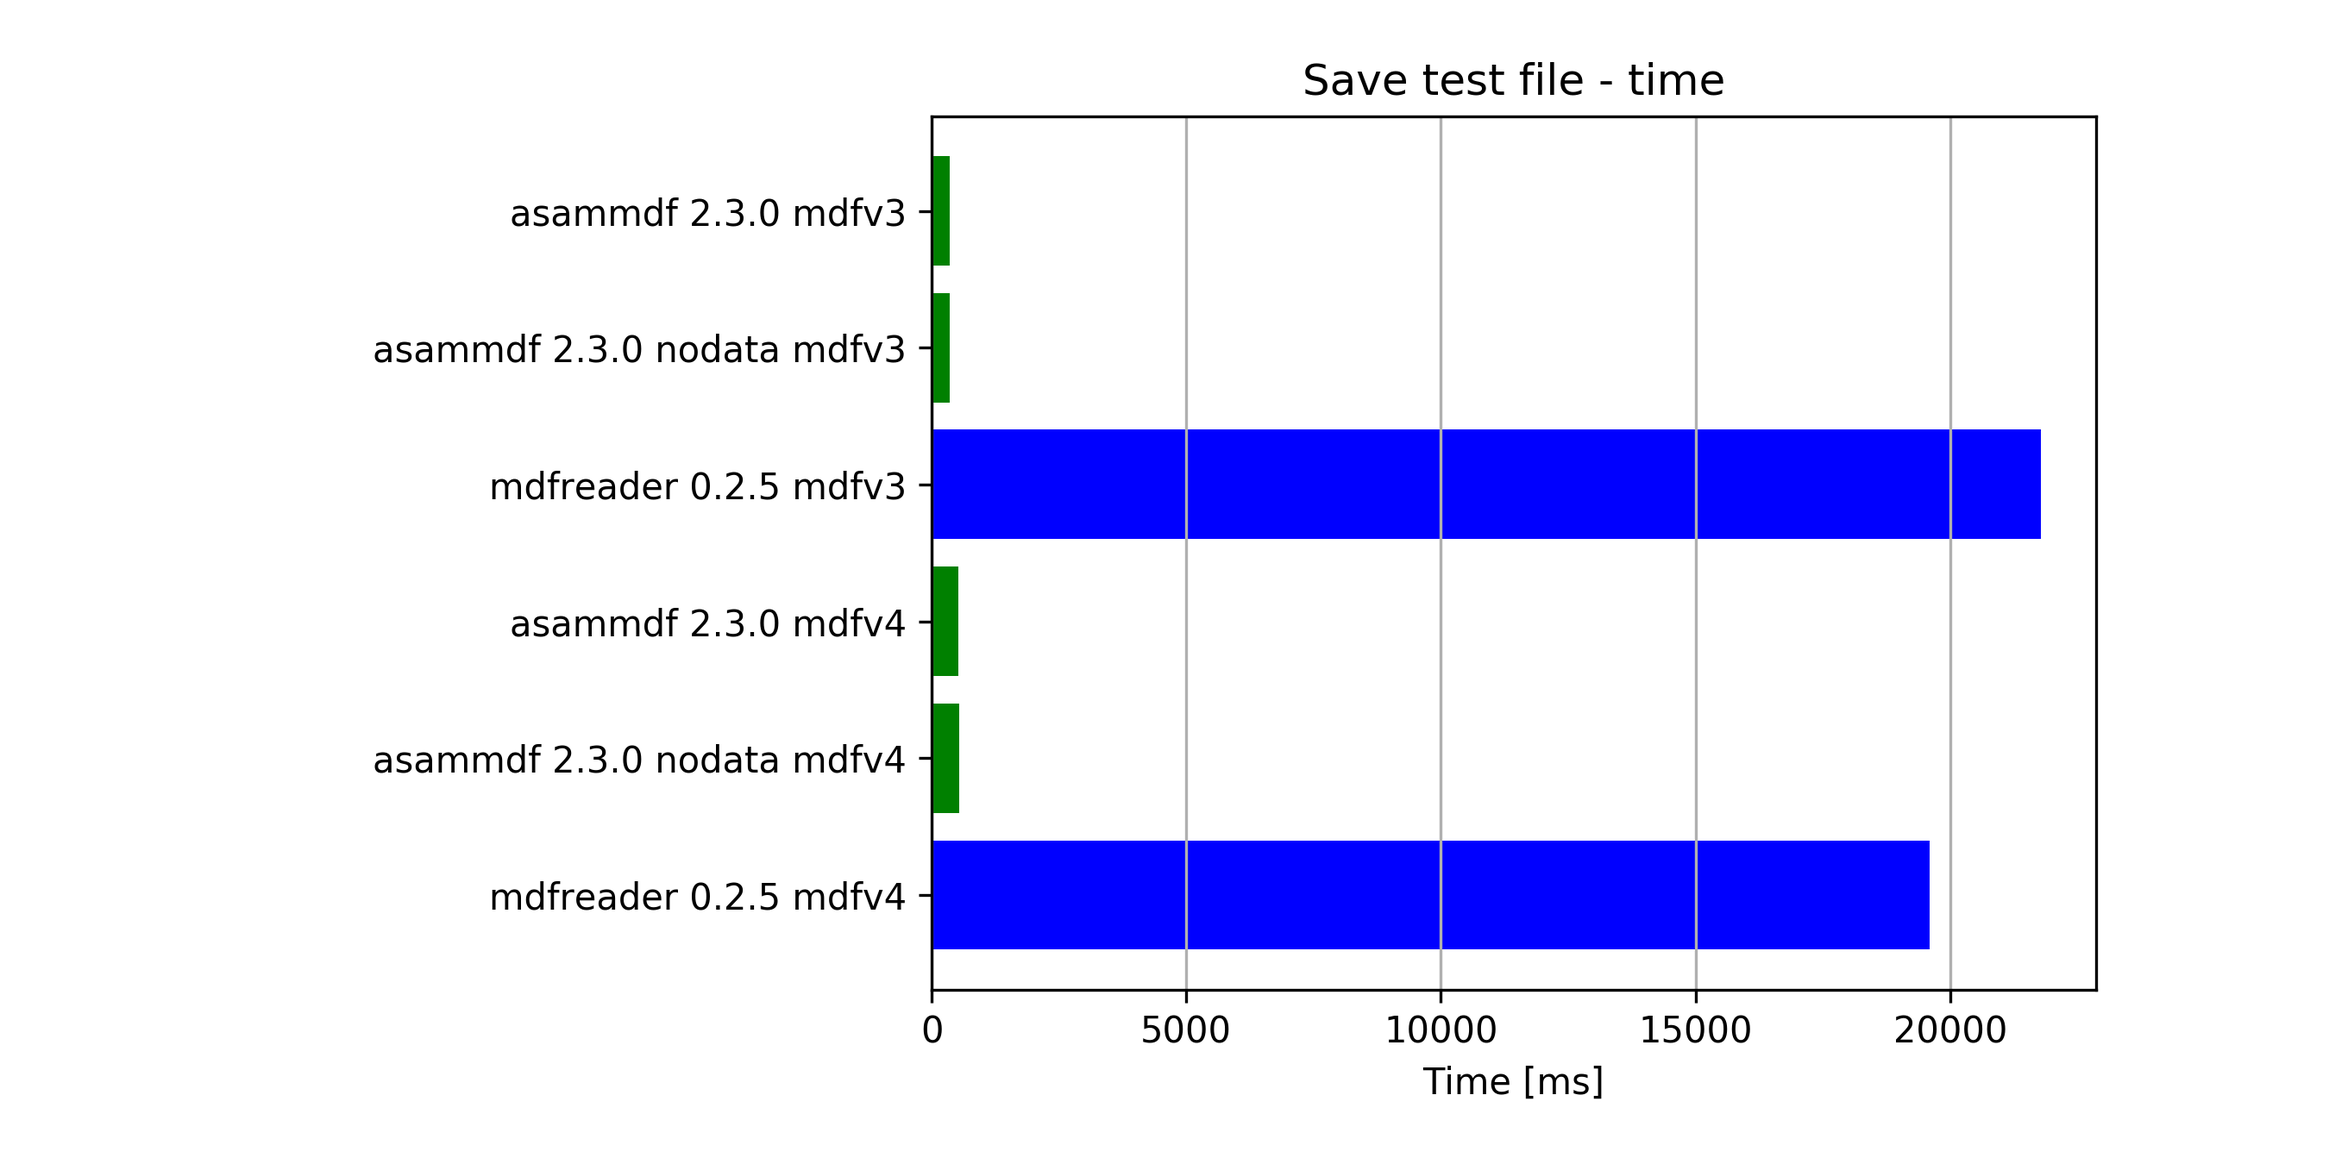
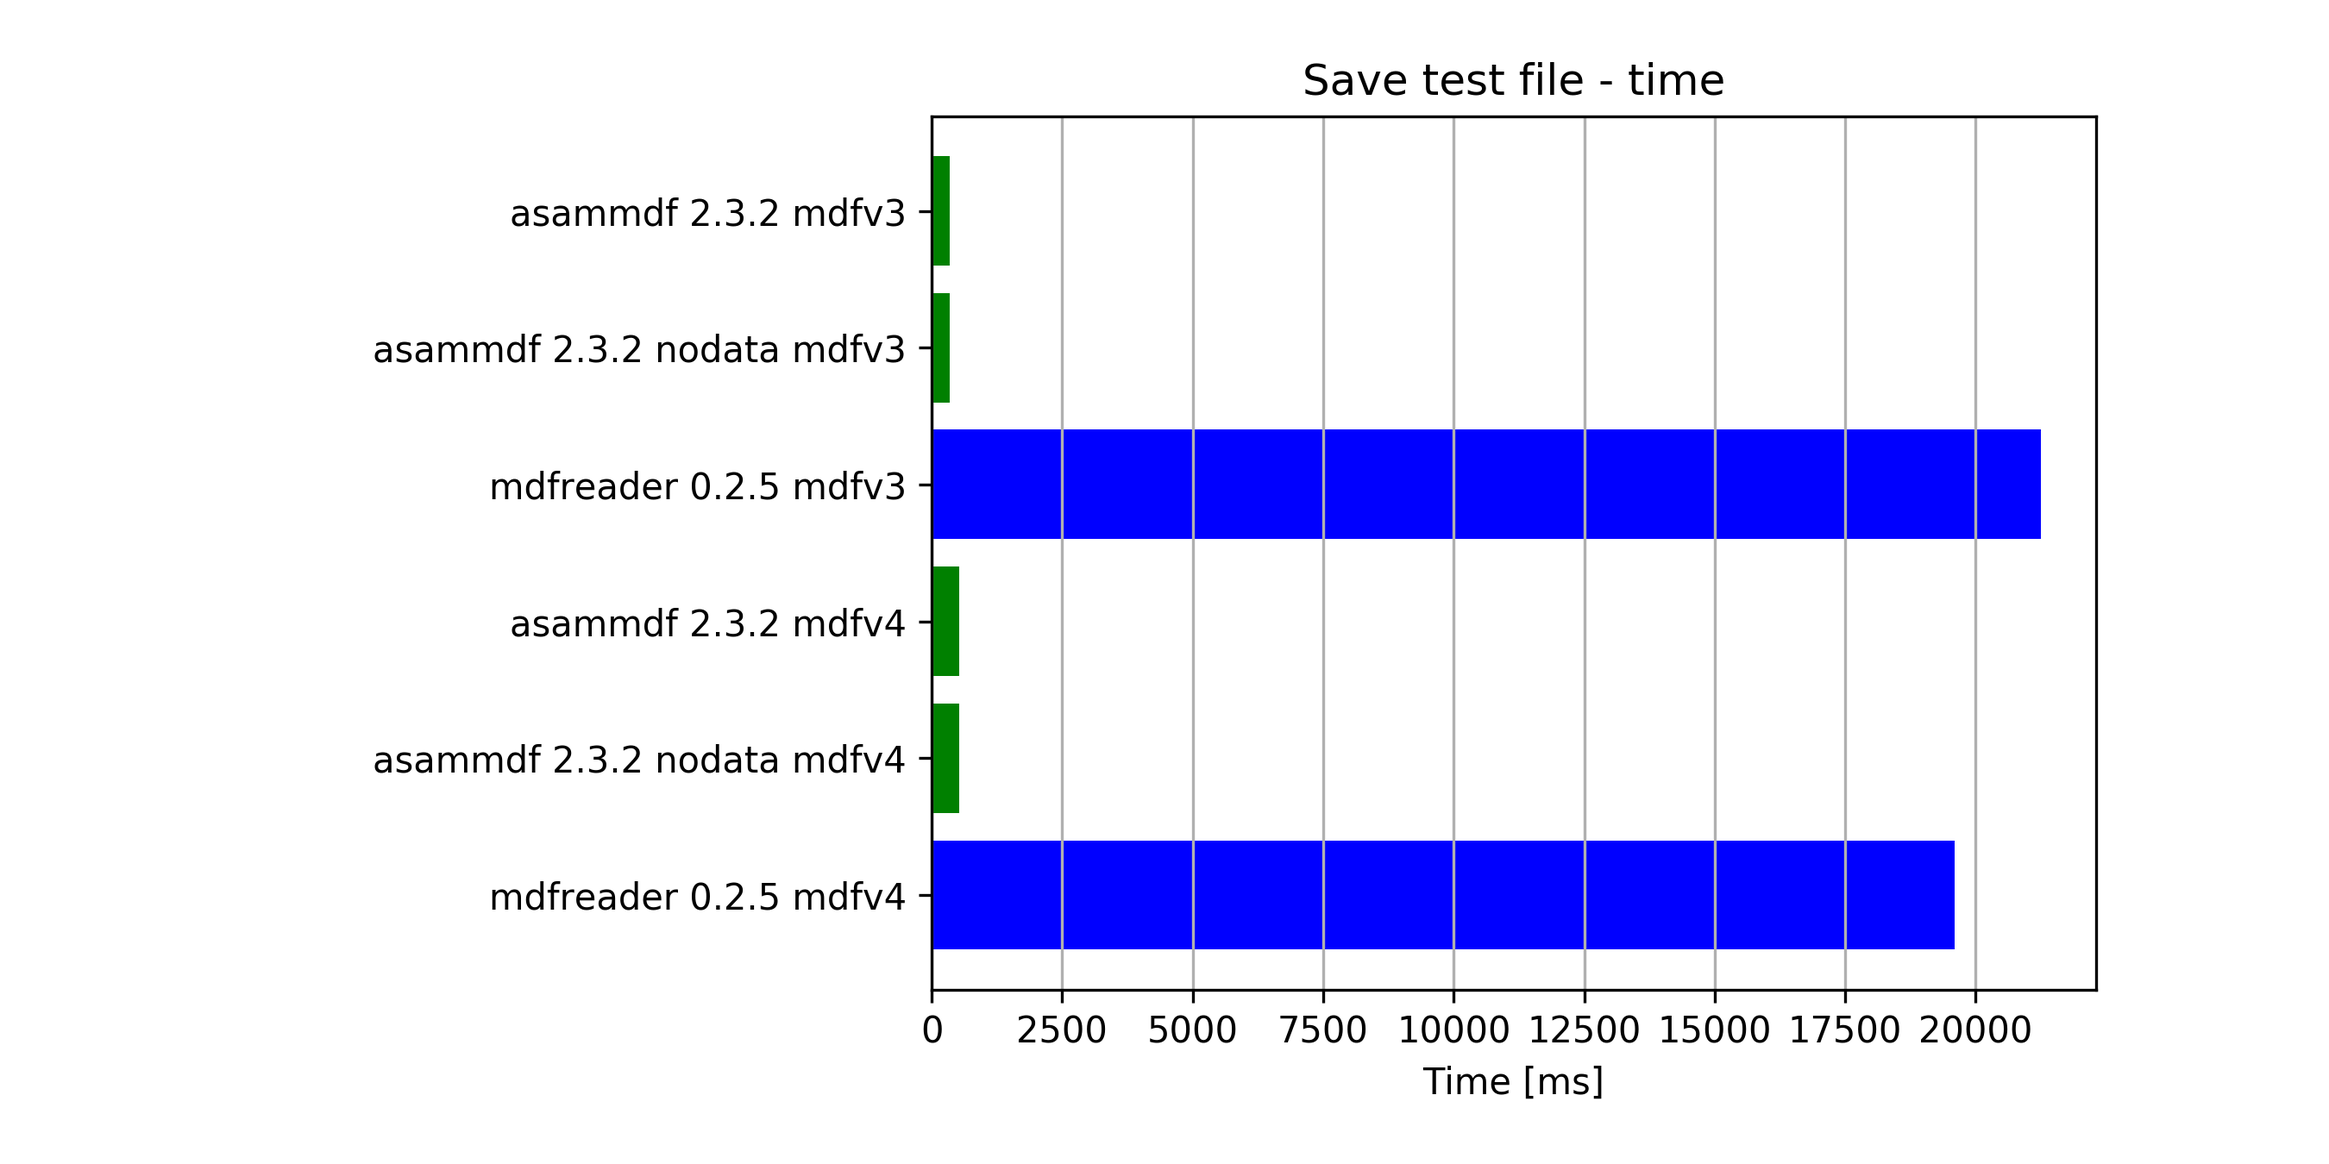
release 2.3.2

diff --git a/documentation/benchmarks.rst b/documentation/benchmarks.rst
@@ -24,7 +24,7 @@ Intro
 The benchmarks were done using two test files (for mdf version 3 and 4) of around 170MB. 
 The files contain 183 data groups and a total of 36424 channels.
 
-*asamdf 2.3.0* was compared against *mdfreader 0.2.5*. 
+*asamdf 2.3.2* was compared against *mdfreader 0.2.5*. 
 *mdfreader* seems to be the most used Python package to handle MDF files, and it also supports both version 3 and 4 of the standard.
 
 The three benchmark cathegories are file open, file save and extracting the data for all channels inside the file(36424 calls).
@@ -61,36 +61,36 @@ Files used for benchmark:
 ================================================== ========= ========
 Open file                                          Time [ms] RAM [MB]
 ================================================== ========= ========
-asammdf 2.3.0 mdfv3                                     1011      379
-asammdf 2.3.0 nodata mdfv3                               725      198
-mdfreader 0.2.5 mdfv3                                   2973      537
-asammdf 2.3.0 mdfv4                                     1890      464
-asammdf 2.3.0 nodata mdfv4                              1542      268
-mdfreader 0.2.5 mdfv4                                  32192      748
+asammdf 2.3.2 mdfv3                                      831      371
+asammdf 2.3.2 nodata mdfv3                               609      190
+mdfreader 0.2.5 mdfv3                                   3083      536
+asammdf 2.3.2 mdfv4                                     1710      455
+asammdf 2.3.2 nodata mdfv4                              1349      260
+mdfreader 0.2.5 mdfv4                                  30847      748
 ================================================== ========= ========
 
 
 ================================================== ========= ========
 Save file                                          Time [ms] RAM [MB]
 ================================================== ========= ========
-asammdf 2.3.0 mdfv3                                      359      379
-asammdf 2.3.0 nodata mdfv3                               352      205
-mdfreader 0.2.5 mdfv3                                  21777     1997
-asammdf 2.3.0 mdfv4                                      525      471
-asammdf 2.3.0 nodata mdfv4                               542      280
-mdfreader 0.2.5 mdfv4                                  19591     2795
+asammdf 2.3.2 mdfv3                                      348      371
+asammdf 2.3.2 nodata mdfv3                               343      197
+mdfreader 0.2.5 mdfv3                                  21244     1997
+asammdf 2.3.2 mdfv4                                      530      462
+asammdf 2.3.2 nodata mdfv4                               522      272
+mdfreader 0.2.5 mdfv4                                  19594     2795
 ================================================== ========= ========
 
 
 ================================================== ========= ========
 Get all channels (36424 calls)                     Time [ms] RAM [MB]
 ================================================== ========= ========
-asammdf 2.3.0 mdfv3                                      589      383
-asammdf 2.3.0 nodata mdfv3                              8841      209
-mdfreader 0.2.5 mdfv3                                     28      537
-asammdf 2.3.0 mdfv4                                      494      468
-asammdf 2.3.0 nodata mdfv4                             12330      280
-mdfreader 0.2.5 mdfv4                                     39      748
+asammdf 2.3.2 mdfv3                                      681      383
+asammdf 2.3.2 nodata mdfv3                              9175      209
+mdfreader 0.2.5 mdfv3                                     29      537
+asammdf 2.3.2 mdfv4                                      599      464
+asammdf 2.3.2 nodata mdfv4                             12191      273
+mdfreader 0.2.5 mdfv4                                     38      748
 ================================================== ========= ========
 
 Graphical results
@@ -101,7 +101,7 @@ Graphical results
     import matplotlib.pyplot as plt
     import numpy as np
     
-    res = '../benchmarks/x64_asammdf_2.3.0_mdfreader_0.2.5.txt'
+    res = '../benchmarks/results/x64_asammdf_2.3.2_mdfreader_0.2.5.txt'
     topic = 'Open'
     aspect = 'time'
     for_doc = True
@@ -169,7 +169,7 @@ Graphical results
     import matplotlib.pyplot as plt
     import numpy as np
 
-    res = '../benchmarks/x64_asammdf_2.3.0_mdfreader_0.2.5.txt'
+    res = '../benchmarks/results/x64_asammdf_2.3.2_mdfreader_0.2.5.txt'
     topic = 'Open'
     aspect = 'ram'
     for_doc = True
@@ -237,7 +237,7 @@ Graphical results
     import matplotlib.pyplot as plt
     import numpy as np
 
-    res = '../benchmarks/x64_asammdf_2.3.0_mdfreader_0.2.5.txt'
+    res = '../benchmarks/results/x64_asammdf_2.3.2_mdfreader_0.2.5.txt'
     topic = 'Save'
     aspect = 'time'
     for_doc = True
@@ -306,7 +306,7 @@ Graphical results
     import matplotlib.pyplot as plt
     import numpy as np
 
-    res = '../benchmarks/x64_asammdf_2.3.0_mdfreader_0.2.5.txt'
+    res = '../benchmarks/results/x64_asammdf_2.3.2_mdfreader_0.2.5.txt'
     topic = 'Save'
     aspect = 'ram'
     for_doc = True
@@ -374,7 +374,7 @@ Graphical results
     import matplotlib.pyplot as plt
     import numpy as np
 
-    res = '../benchmarks/x64_asammdf_2.3.0_mdfreader_0.2.5.txt'
+    res = '../benchmarks/results/x64_asammdf_2.3.2_mdfreader_0.2.5.txt'
     topic = 'Get'
     aspect = 'time'
     for_doc = True
@@ -443,7 +443,7 @@ Graphical results
     import matplotlib.pyplot as plt
     import numpy as np
 
-    res = '../benchmarks/x64_asammdf_2.3.0_mdfreader_0.2.5.txt'
+    res = '../benchmarks/results/x64_asammdf_2.3.2_mdfreader_0.2.5.txt'
     topic = 'Get'
     aspect = 'ram'
     for_doc = True
@@ -546,36 +546,36 @@ Files used for benchmark:
 ================================================== ========= ========
 Open file                                          Time [ms] RAM [MB]
 ================================================== ========= ========
-asammdf 2.3.0 mdfv3                                     1126      294
-asammdf 2.3.0 nodata mdfv3                               917      123
-mdfreader 0.2.5 mdfv3                                   3743      455
-asammdf 2.3.0 mdfv4                                     2359      348
-asammdf 2.3.0 nodata mdfv4                              1906      166
-mdfreader 0.2.5 mdfv4                                  43166      577
+asammdf 2.3.2 mdfv3                                      980      288
+asammdf 2.3.2 nodata mdfv3                               670      118
+mdfreader 0.2.5 mdfv3                                   3776      455
+asammdf 2.3.2 mdfv4                                     2071      342
+asammdf 2.3.2 nodata mdfv4                              1610      160
+mdfreader 0.2.5 mdfv4                                  43559      578
 ================================================== ========= ========
 
 
 ================================================== ========= ========
 Save file                                          Time [ms] RAM [MB]
 ================================================== ========= ========
-asammdf 2.3.0 mdfv3                                      420      297
-asammdf 2.3.0 nodata mdfv3                               445      130
-mdfreader 0.2.5 mdfv3                                  20078     1224
-asammdf 2.3.0 mdfv4                                      711      357
-asammdf 2.3.0 nodata mdfv4                               738      175
-mdfreader 0.2.5 mdfv4                                  17822     1687
+asammdf 2.3.2 mdfv3                                      406      291
+asammdf 2.3.2 nodata mdfv3                               432      125
+mdfreader 0.2.5 mdfv3                                  19623     1224
+asammdf 2.3.2 mdfv4                                      691      351
+asammdf 2.3.2 nodata mdfv4                               734      169
+mdfreader 0.2.5 mdfv4                                  17657     1687
 ================================================== ========= ========
 
 
 ================================================== ========= ========
 Get all channels (36424 calls)                     Time [ms] RAM [MB]
 ================================================== ========= ========
-asammdf 2.3.0 mdfv3                                      777      299
-asammdf 2.3.0 nodata mdfv3                             18662      132
-mdfreader 0.2.5 mdfv3                                     36      455
-asammdf 2.3.0 mdfv4                                      681      354
-asammdf 2.3.0 nodata mdfv4                             20439      176
-mdfreader 0.2.5 mdfv4                                     51      578
+asammdf 2.3.2 mdfv3                                      963      298
+asammdf 2.3.2 nodata mdfv3                             19059      132
+mdfreader 0.2.5 mdfv3                                     34      455
+asammdf 2.3.2 mdfv4                                      868      349
+asammdf 2.3.2 nodata mdfv4                             20434      171
+mdfreader 0.2.5 mdfv4                                     54      578
 ================================================== ========= ========
 
 
@@ -587,7 +587,7 @@ Graphical results
     import matplotlib.pyplot as plt
     import numpy as np
 
-    res = '../benchmarks/x86_asammdf_2.3.0_mdfreader_0.2.5.txt'
+    res = '../benchmarks/results/x86_asammdf_2.3.2_mdfreader_0.2.5.txt'
     topic = 'Open'
     aspect = 'time'
     for_doc = True
@@ -656,7 +656,7 @@ Graphical results
     import matplotlib.pyplot as plt
     import numpy as np
 
-    res = '../benchmarks/x86_asammdf_2.3.0_mdfreader_0.2.5.txt'
+    res = '../benchmarks/results/x86_asammdf_2.3.2_mdfreader_0.2.5.txt'
     topic = 'Open'
     aspect = 'ram'
     for_doc = True
@@ -725,7 +725,7 @@ Graphical results
     import matplotlib.pyplot as plt
     import numpy as np
 
-    res = '../benchmarks/x86_asammdf_2.3.0_mdfreader_0.2.5.txt'
+    res = '../benchmarks/results/x86_asammdf_2.3.2_mdfreader_0.2.5.txt'
     topic = 'Save'
     aspect = 'time'
     for_doc = True
@@ -794,7 +794,7 @@ Graphical results
     import matplotlib.pyplot as plt
     import numpy as np
 
-    res = '../benchmarks/x86_asammdf_2.3.0_mdfreader_0.2.5.txt'
+    res = '../benchmarks/results/x86_asammdf_2.3.2_mdfreader_0.2.5.txt'
     topic = 'Save'
     aspect = 'ram'
     for_doc = True
@@ -863,7 +863,7 @@ Graphical results
     import matplotlib.pyplot as plt
     import numpy as np
 
-    res = '../benchmarks/x86_asammdf_2.3.0_mdfreader_0.2.5.txt'
+    res = '../benchmarks/results/x86_asammdf_2.3.2_mdfreader_0.2.5.txt'
     topic = 'Get'
     aspect = 'time'
     for_doc = True
@@ -932,7 +932,7 @@ Graphical results
     import matplotlib.pyplot as plt
     import numpy as np
 
-    res = '../benchmarks/x86_asammdf_2.3.0_mdfreader_0.2.5.txt'
+    res = '../benchmarks/results/x86_asammdf_2.3.2_mdfreader_0.2.5.txt'
     topic = 'Get'
     aspect = 'ram'
     for_doc = True

diff --git a/README.rst b/README.rst
@@ -109,36 +109,36 @@ Files used for benchmark:
 ================================================== ========= ========
 Open file                                          Time [ms] RAM [MB]
 ================================================== ========= ========
-asammdf 2.3.0 mdfv3                                     1126      294
-asammdf 2.3.0 nodata mdfv3                               917      123
-mdfreader 0.2.5 mdfv3                                   3743      455
-asammdf 2.3.0 mdfv4                                     2359      348
-asammdf 2.3.0 nodata mdfv4                              1906      166
-mdfreader 0.2.5 mdfv4                                  43166      577
+asammdf 2.3.2 mdfv3                                      980      288
+asammdf 2.3.2 nodata mdfv3                               670      118
+mdfreader 0.2.5 mdfv3                                   3776      455
+asammdf 2.3.2 mdfv4                                     2071      342
+asammdf 2.3.2 nodata mdfv4                              1610      160
+mdfreader 0.2.5 mdfv4                                  43559      578
 ================================================== ========= ========
 
 
 ================================================== ========= ========
 Save file                                          Time [ms] RAM [MB]
 ================================================== ========= ========
-asammdf 2.3.0 mdfv3                                      420      297
-asammdf 2.3.0 nodata mdfv3                               445      130
-mdfreader 0.2.5 mdfv3                                  20078     1224
-asammdf 2.3.0 mdfv4                                      711      357
-asammdf 2.3.0 nodata mdfv4                               738      175
-mdfreader 0.2.5 mdfv4                                  17822     1687
+asammdf 2.3.2 mdfv3                                      406      291
+asammdf 2.3.2 nodata mdfv3                               432      125
+mdfreader 0.2.5 mdfv3                                  19623     1224
+asammdf 2.3.2 mdfv4                                      691      351
+asammdf 2.3.2 nodata mdfv4                               734      169
+mdfreader 0.2.5 mdfv4                                  17657     1687
 ================================================== ========= ========
 
 
 ================================================== ========= ========
 Get all channels (36424 calls)                     Time [ms] RAM [MB]
 ================================================== ========= ========
-asammdf 2.3.0 mdfv3                                      777      299
-asammdf 2.3.0 nodata mdfv3                             18662      132
-mdfreader 0.2.5 mdfv3                                     36      455
-asammdf 2.3.0 mdfv4                                      681      354
-asammdf 2.3.0 nodata mdfv4                             20439      176
-mdfreader 0.2.5 mdfv4                                     51      578
+asammdf 2.3.2 mdfv3                                      963      298
+asammdf 2.3.2 nodata mdfv3                             19059      132
+mdfreader 0.2.5 mdfv3                                     34      455
+asammdf 2.3.2 mdfv4                                      868      349
+asammdf 2.3.2 nodata mdfv4                             20434      171
+mdfreader 0.2.5 mdfv4                                     54      578
 ================================================== ========= ========
 
 
@@ -167,34 +167,34 @@ Files used for benchmark:
 ================================================== ========= ========
 Open file                                          Time [ms] RAM [MB]
 ================================================== ========= ========
-asammdf 2.3.0 mdfv3                                     1011      379
-asammdf 2.3.0 nodata mdfv3                               725      198
-mdfreader 0.2.5 mdfv3                                   2973      537
-asammdf 2.3.0 mdfv4                                     1890      464
-asammdf 2.3.0 nodata mdfv4                              1542      268
-mdfreader 0.2.5 mdfv4                                  32192      748
+asammdf 2.3.2 mdfv3                                      831      371
+asammdf 2.3.2 nodata mdfv3                               609      190
+mdfreader 0.2.5 mdfv3                                   3083      536
+asammdf 2.3.2 mdfv4                                     1710      455
+asammdf 2.3.2 nodata mdfv4                              1349      260
+mdfreader 0.2.5 mdfv4                                  30847      748
 ================================================== ========= ========
 
 
 ================================================== ========= ========
 Save file                                          Time [ms] RAM [MB]
 ================================================== ========= ========
-asammdf 2.3.0 mdfv3                                      359      379
-asammdf 2.3.0 nodata mdfv3                               352      205
-mdfreader 0.2.5 mdfv3                                  21777     1997
-asammdf 2.3.0 mdfv4                                      525      471
-asammdf 2.3.0 nodata mdfv4                               542      280
-mdfreader 0.2.5 mdfv4                                  19591     2795
+asammdf 2.3.2 mdfv3                                      348      371
+asammdf 2.3.2 nodata mdfv3                               343      197
+mdfreader 0.2.5 mdfv3                                  21244     1997
+asammdf 2.3.2 mdfv4                                      530      462
+asammdf 2.3.2 nodata mdfv4                               522      272
+mdfreader 0.2.5 mdfv4                                  19594     2795
 ================================================== ========= ========
 
 
 ================================================== ========= ========
 Get all channels (36424 calls)                     Time [ms] RAM [MB]
 ================================================== ========= ========
-asammdf 2.3.0 mdfv3                                      589      383
-asammdf 2.3.0 nodata mdfv3                              8841      209
-mdfreader 0.2.5 mdfv3                                     28      537
-asammdf 2.3.0 mdfv4                                      494      468
-asammdf 2.3.0 nodata mdfv4                             12330      280
-mdfreader 0.2.5 mdfv4                                     39      748
+asammdf 2.3.2 mdfv3                                      681      383
+asammdf 2.3.2 nodata mdfv3                              9175      209
+mdfreader 0.2.5 mdfv3                                     29      537
+asammdf 2.3.2 mdfv4                                      599      464
+asammdf 2.3.2 nodata mdfv4                             12191      273
+mdfreader 0.2.5 mdfv4                                     38      748
 ================================================== ========= ========
